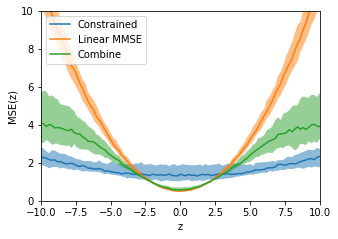
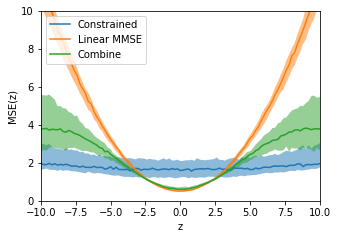
finite sample base line

diff --git a/example/simulation_synthetic_data_finite_sample_new.py b/example/simulation_synthetic_data_finite_sample_new.py
@@ -1,0 +1,246 @@
+# -*- coding: utf-8 -*-
+"""
+Created on Thu Jan 31 09:35:17 2019
+
+@author: Administrator
+"""
+
+import numpy as np
+import matplotlib.pyplot as plt
+import seaborn as sns
+import cvxpy as cp
+from scipy.spatial import distance
+from scipy.stats import norm
+from sklearn.metrics import mean_squared_error
+import time
+
+# =============================================================================
+# Data
+# =============================================================================
+
+# Split to x, y, z
+# feature = (x, z), target = (y)
+d = 2    # dimension of x
+q = 1    # dimension of z
+
+# Covariance matrices
+Cov_xzy = np.array([[1, .25, .25, .5],
+                    [.25, 1, .25, .5],
+                    [.25, .25, 1, .5],
+                    [.5, .5, .5, 1]])
+np.linalg.eig(Cov_xzy)
+plt.figure(figsize=(6, 5))
+sns.heatmap(Cov_xzy)
+
+iter_max = 50
+
+MSE_const = np.zeros((105, iter_max))
+MSE_unconst = np.zeros((105, iter_max))
+MSE_combine = np.zeros((105, iter_max))
+
+for iter in range(iter_max):
+    
+    t = time.time()
+    
+    # Generated finite sample (size N) training data
+    N = 100
+    xzy = np.transpose(np.random.multivariate_normal(np.zeros(((d+q+1))), Cov_xzy, N))
+    
+    XZ = xzy[0:d+q, :]
+    X = xzy[0:d, :].reshape(d, N)
+    Z = xzy[d:d+q, :].reshape(q, N)
+    Y = xzy[-1, :].reshape(1, N)
+    
+    D_j = np.zeros(d)
+    for j in range (d):
+        D_j[j] = np.sqrt(np.linalg.norm(X[j, :])**2/N)
+    D = np.diag(D_j)
+    
+    M = np.dot(Z, np.transpose(X))
+    M_dagger = np.linalg.pinv(M)
+    
+    B = Y - np.dot(np.transpose(np.dot(M_dagger, np.dot(Z, np.transpose(Y)))), X)
+    A = np.dot(np.transpose(np.identity(d) - np.dot(M_dagger, M)), X)
+    
+    D_j = np.zeros(d)
+    for j in range (d):
+        D_j[j] = np.sqrt(np.linalg.norm(A[j, :])**2/N)
+    D_new = np.diag(D_j)
+    
+    # =============================================================================
+    # Training (Data fitting OLS-SPICE)
+    # =============================================================================
+    
+    theta = cp.reshape(cp.Variable(d), (d, 1))
+    
+    def loss_fn_1(A, B, theta):
+        return cp.norm(B - cp.matmul(cp.atoms.affine.transpose.transpose(theta), A)) 
+    
+    def regularizer_1(theta):
+        return cp.norm(cp.matmul(D_new, theta), 1)
+    
+    def objective_fn_1(A, B, theta):
+        return loss_fn_1(A, B, theta) + regularizer_1(theta)
+    
+#    def objective_fn_1(A, B, theta):
+#        return loss_fn_1(A, B, theta)
+    
+    problem_1 = cp.Problem(cp.Minimize(objective_fn_1(A, B, theta)))
+    problem_1.solve()
+    
+    # =============================================================================
+    # Unconstrained optimal    
+    # =============================================================================
+    
+    w_opt = cp.reshape(cp.Variable(d), (d, 1))
+    
+    def loss_fn_2(X, Y, w_opt):
+        return cp.norm(Y - cp.matmul(cp.atoms.affine.transpose.transpose(w_opt), X)) 
+    
+    def regularizer_2(w_opt):
+        return cp.norm(cp.matmul(D, w_opt), 1)
+    
+    def objective_fn_2(X, Y, w_opt):
+        return loss_fn_2(X, Y, w_opt) + regularizer_2(w_opt)
+    
+#    def objective_fn_2(X, Y, w_opt):
+#        return loss_fn_2(X, Y, w_opt)
+    
+    problem_2 = cp.Problem(cp.Minimize(objective_fn_2(X, Y, w_opt)))
+    problem_2.solve()
+    
+    # =============================================================================
+    # Predict z first, then y  
+    # =============================================================================
+    
+    w_z = cp.reshape(cp.Variable(d), (d, 1))
+    
+    def loss_fn_3(X, Z, w_z):
+        return cp.norm(Z - cp.matmul(cp.atoms.affine.transpose.transpose(w_z), X)) 
+    
+    def objective_fn_3(X, Z, w_z):
+        return loss_fn_3(X, Z, w_z) + regularizer_2(w_z)
+    
+#    def objective_fn_3(X, Z, w_z):
+#        return loss_fn_3(X, Z, w_z)
+
+    problem_3 = cp.Problem(cp.Minimize(objective_fn_3(X, Z, w_z)))
+    problem_3.solve()
+    
+    # =============================================================================
+    # Testing
+    # =============================================================================
+    
+    theta = theta.value[0:d]
+    
+    w_c = np.dot(M_dagger, np.dot(Z, np.transpose(Y))) + np.dot((np.identity(d) - np.dot(M_dagger, M)), theta)
+    w_opt = w_opt.value[0:d]
+    w_z = w_z.value
+    
+    # Threshold 
+    T = 0.5
+    K = 10
+    
+    # Generate testing data
+    # (x, y, z) ~ N(mu, Cov)
+    Cov_xyz = np.array([[1, .25, .5, .25,],
+                        [.25, 1, .5, .25,],
+                        [.5, .5, 1, .5],
+                        [.25, .25, .5, 1]])
+    #LA.eig(Cov_xyz)
+    #plt.figure()
+    #sns.heatmap(Cov_xyz)
+    
+    # (x, y | z) ~ N(mu_xy_z, Cov_xy_z)
+    def conditional_mean(z, mu_z, mu_xy, Cov_xyz):
+        mu_xy_z = mu_xy + np.dot(np.dot(Cov_xyz[0:d+1, d+1:], np.linalg.inv(Cov_xyz[d+1:, d+1:])), (z-mu_z))  
+        Cov_xy_z = Cov_xyz[0:d+1, 0:d+1] - np.dot(np.dot(Cov_xyz[0:d+1, d+1:], np.linalg.inv(Cov_xyz[d+1:, d+1:])), np.transpose(Cov_xyz[0:d+1, d+1:]))
+        return mu_xy_z, Cov_xy_z
+    
+    #mu_xy_z, Cov_xy_z = conditional_mean(1, 0, 0, Cov_xyz)
+    num_test = 1000
+    for j in range(0, 105, 1):
+        z = -10 + j*.2
+        mu_xy_z, Cov_xy_z = conditional_mean(z, 0, 0, Cov_xyz)
+        y_true = np.zeros((num_test,1))
+        y_predict_const = np.zeros((num_test,1))
+        y_predict_unconst = np.zeros((num_test,1))
+        z_predict = np.zeros((num_test,1))
+        y_predict_combine = np.zeros((num_test,1))
+        
+        for i in range(0, num_test):
+            xy = np.random.multivariate_normal(mu_xy_z.reshape(d+1), Cov_xy_z)
+            
+            y_true[i] = xy[d:]
+            
+            # Robust 
+            y_predict_const[i] = np.dot(np.transpose(w_c), xy[0:d].reshape(d,1))
+            
+            # LMMSE
+            y_predict_unconst[i] = np.dot(np.transpose(w_opt), xy[0:d].reshape(d,1))
+            
+            z_predict[i] = np.dot(np.transpose(w_z), xy[0:d].reshape(d,1))
+                
+            # Combine
+            maha_distance = distance.mahalanobis(z_predict[i], 0, 1)
+            a = 1/(1+np.exp(-K*(maha_distance-T)))
+            b = 1 - a
+            y_predict_combine[i] = a*y_predict_const[i] + b*y_predict_unconst[i]
+            
+        # MSE
+        MSE_const[j, iter] = mean_squared_error(y_true, y_predict_const) 
+        MSE_unconst[j, iter] = mean_squared_error(y_true, y_predict_unconst) 
+        MSE_combine[j, iter] = mean_squared_error(y_true, y_predict_combine) 
+        
+    # do stuff
+    elapsed = time.time() - t
+    print(iter)
+    print(elapsed)
+        
+MSE_const_average = np.mean(MSE_const, axis=1)
+MSE_unconst_average = np.mean(MSE_unconst, axis=1)
+MSE_combine_average = np.mean(MSE_combine, axis=1)
+
+# =============================================================================
+# Visualization of results    
+# =============================================================================
+rz = norm(loc=0, scale=1)
+z = np.linspace(norm.ppf(0.0001),norm.ppf(0.9999), 100)    
+
+x = np.array([3, 3])
+mu_z_x = np.dot(np.dot(Cov_xzy[d:d+q, 0:d], np.linalg.inv(Cov_xzy[0:d, 0:d])), x.reshape(d,1))
+var_z_x = 1 - np.dot(np.dot(Cov_xzy[d:d+q, 0:d], np.linalg.inv(Cov_xzy[0:d, 0:d])), np.transpose(Cov_xzy[d:d+q, 0:d]))
+rz_x = norm(loc=mu_z_x, scale=var_z_x)
+z_x = np.linspace(norm.ppf(0.0001),norm.ppf(0.9999), 100)  
+
+MSE_const_var = np.std(MSE_const, axis=1)
+MSE_unconst_var = np.std(MSE_unconst, axis=1)
+MSE_combine_var = np.std(MSE_combine, axis=1)
+
+MSE_const_median = np.median(MSE_const, axis=1)
+MSE_unconst_median = np.median(MSE_unconst, axis=1)
+MSE_combine_median = np.median(MSE_combine, axis=1)
+
+MSE_const_75 = np.percentile(MSE_const, 75, axis=1)
+MSE_unconst_75 = np.percentile(MSE_unconst, 75, axis=1)
+MSE_combine_75 = np.percentile(MSE_combine, 75, axis=1)
+
+MSE_const_25 = np.percentile(MSE_const, 25, axis=1)
+MSE_unconst_25 = np.percentile(MSE_unconst, 25, axis=1)
+MSE_combine_25 = np.percentile(MSE_combine, 25, axis=1)
+
+plt.figure(figsize=(5, 3.5))
+plt.fill_between(np.arange(-10, 11, .2), MSE_const_25, MSE_const_75, alpha = 0.5)
+plt.plot(np.arange(-10, 11, .2), MSE_const_median.reshape(105), label="Constrained")
+
+plt.fill_between(np.arange(-10, 11, .2), MSE_unconst_25, MSE_unconst_75, alpha = 0.5)
+plt.plot(np.arange(-10, 11, .2), MSE_unconst_median.reshape(105), label="Linear MMSE")
+
+plt.fill_between(np.arange(-10, 11, .2), MSE_combine_25, MSE_combine_75, alpha = 0.5)
+plt.plot(np.arange(-10, 11, .2), MSE_combine_median.reshape(105), label="Combine")
+
+plt.xlim((-10, 10))
+plt.ylim((0, 10))
+plt.legend(loc=2)   
+plt.xlabel("z")
+plt.ylabel("MSE(z)")

diff --git a/example/simulation_synthetic_data_finite_sample.py b/example/simulation_synthetic_data_finite_sample.py
@@ -8,14 +8,12 @@ Created on Thu Jan 31 09:35:17 2019
 import numpy as np
 import matplotlib.pyplot as plt
 import seaborn as sns
-#from scipy.optimize import minimize
 import cvxpy as cp
 from scipy.spatial import distance
 from scipy.stats import norm
 import matplotlib.gridspec as gridspec
 from sklearn.metrics import mean_squared_error
 import time
-import pandas as pd
 
 # =============================================================================
 # Data
@@ -47,7 +45,7 @@ for iter in range(iter_max):
     t = time.time()
     
     # Generated finite sample (size N) training data
-    N = 100
+    N = 1000
     xzy = np.random.multivariate_normal(np.zeros(((d+q+1))), Cov_xzy, N)
     
     XZ = xzy[:, 0:d+q]
@@ -71,11 +69,11 @@ for iter in range(iter_max):
     def regularizer(w):
         return cp.norm(cp.matmul(D, w), 1)
     
-    def objective_fn(X, Y, w):
-        return loss_fn(X, Y, w) + regularizer(w)
-    
 #    def objective_fn(X, Y, w):
-#        return loss_fn(X, Y, w)
+#        return loss_fn(X, Y, w) + regularizer(w)
+    
+    def objective_fn(X, Y, w):
+        return loss_fn(X, Y, w)
         
     constraints = [cp.sum(cp.matmul(np.transpose(Z),cp.matmul(X, w) - Y)) == 0]
     
@@ -97,11 +95,11 @@ for iter in range(iter_max):
     def loss_fn_2(X, Z, w_z):
         return cp.norm(cp.matmul(X, w_z) - Z) 
     
-    def objective_fn_2(X, Z, w_z):
-        return loss_fn_2(X, Z, w_z) + regularizer(w_z)
-        
 #    def objective_fn_2(X, Z, w_z):
-#        return loss_fn_2(X, Z, w_z)
+#        return loss_fn_2(X, Z, w_z) + regularizer(w_z)
+        
+    def objective_fn_2(X, Z, w_z):
+        return loss_fn_2(X, Z, w_z)
     
     problem3 = cp.Problem(cp.Minimize(objective_fn_2(X, Z, w_z)))
     problem3.solve()
@@ -243,34 +241,55 @@ MSE_unconst_median = np.median(MSE_unconst, axis=1)
 MSE_biweight_median = np.median(MSE_biweight, axis=1)
 MSE_combine_median = np.median(MSE_combine, axis=1)
 
-MSE_const_max = np.max(MSE_const, axis=1)
-MSE_unconst_max = np.max(MSE_unconst, axis=1)
-MSE_biweight_max = np.max(MSE_biweight, axis=1)
-MSE_combine_max = np.max(MSE_combine, axis=1)
+MSE_const_75 = np.percentile(MSE_const, 75, axis=1)
+MSE_unconst_75 = np.percentile(MSE_unconst, 75, axis=1)
+MSE_biweight_75 = np.percentile(MSE_biweight, 75, axis=1)
+MSE_combine_75 = np.percentile(MSE_combine, 75, axis=1)
 
-MSE_const_min = np.min(MSE_const, axis=1)
-MSE_unconst_min = np.min(MSE_unconst, axis=1)
-MSE_biweight_min = np.min(MSE_biweight, axis=1)
-MSE_combine_min = np.min(MSE_combine, axis=1)
+MSE_const_25 = np.percentile(MSE_const, 25, axis=1)
+MSE_unconst_25 = np.percentile(MSE_unconst, 25, axis=1)
+MSE_biweight_25 = np.percentile(MSE_biweight, 25, axis=1)
+MSE_combine_25 = np.percentile(MSE_combine, 25, axis=1)
+
+#plt.figure(figsize=(5, 3.5))
+#plt.fill_between(np.arange(-10, 11, .2), MSE_const_average.reshape(105)-MSE_const_var, MSE_const_average.reshape(105)+MSE_const_var, alpha = 0.5)
+#plt.plot(np.arange(-10, 11, .2), MSE_const_average.reshape(105), label="Constrained")
+#
+#plt.fill_between(np.arange(-10, 11, .2), MSE_unconst_average.reshape(105)-MSE_unconst_var, MSE_unconst_average.reshape(105)+MSE_unconst_var, alpha = 0.5)
+#plt.plot(np.arange(-10, 11, .2), MSE_unconst_average.reshape(105), label="Linear MMSE")
+#
+##plt.fill_between(np.arange(-10, 11, .2), MSE_biweight_average.reshape(105)-MSE_biweight_var, MSE_biweight_average.reshape(105)+MSE_biweight_var, alpha = 0.5)
+##plt.plot(np.arange(-10, 11, .2), MSE_biweight_average.reshape(105), label="Binary Weight")
+#
+#plt.fill_between(np.arange(-10, 11, .2), MSE_combine_average.reshape(105)-MSE_combine_var, MSE_combine_average.reshape(105)+MSE_combine_var, alpha = 0.5)
+#plt.plot(np.arange(-10, 11, .2), MSE_combine_average.reshape(105), label="Combine")
+#
+#plt.xlim((-10, 10))
+#plt.ylim((0, 10))
+#plt.legend(loc=2)   
+#plt.xlabel("z")
+#plt.ylabel("MSE(z)")
+
 
 plt.figure(figsize=(5, 3.5))
-plt.fill_between(np.arange(-10, 11, .2), MSE_const_average.reshape(105)-MSE_const_var, MSE_const_average.reshape(105)+MSE_const_var, alpha = 0.5)
-plt.plot(np.arange(-10, 11, .2), MSE_const_average.reshape(105), label="Constrained")
+plt.fill_between(np.arange(-10, 11, .2), MSE_const_25, MSE_const_75, alpha = 0.5)
+plt.plot(np.arange(-10, 11, .2), MSE_const_median.reshape(105), label="Constrained")
 
-plt.fill_between(np.arange(-10, 11, .2), MSE_unconst_average.reshape(105)-MSE_unconst_var, MSE_unconst_average.reshape(105)+MSE_unconst_var, alpha = 0.5)
-plt.plot(np.arange(-10, 11, .2), MSE_unconst_average.reshape(105), label="Linear MMSE")
+plt.fill_between(np.arange(-10, 11, .2), MSE_unconst_25, MSE_unconst_75, alpha = 0.5)
+plt.plot(np.arange(-10, 11, .2), MSE_unconst_median.reshape(105), label="Linear MMSE")
 
 #plt.fill_between(np.arange(-10, 11, .2), MSE_biweight_average.reshape(105)-MSE_biweight_var, MSE_biweight_average.reshape(105)+MSE_biweight_var, alpha = 0.5)
 #plt.plot(np.arange(-10, 11, .2), MSE_biweight_average.reshape(105), label="Binary Weight")
 
-plt.fill_between(np.arange(-10, 11, .2), MSE_combine_average.reshape(105)-MSE_combine_var, MSE_combine_average.reshape(105)+MSE_combine_var, alpha = 0.5)
-plt.plot(np.arange(-10, 11, .2), MSE_combine_average.reshape(105), label="Combine")
+plt.fill_between(np.arange(-10, 11, .2), MSE_combine_25, MSE_combine_75, alpha = 0.5)
+plt.plot(np.arange(-10, 11, .2), MSE_combine_median.reshape(105), label="Combine")
 
 plt.xlim((-10, 10))
 plt.ylim((0, 10))
 plt.legend(loc=2)   
 plt.xlabel("z")
 plt.ylabel("MSE(z)")
+
 
 #plt.figure(figsize=(5, 3.5))
 ##sns.lineplot(np.arange(-10, 11, .2), MSE_lowerbound.reshape(105), color='k', label="Lower bound")
